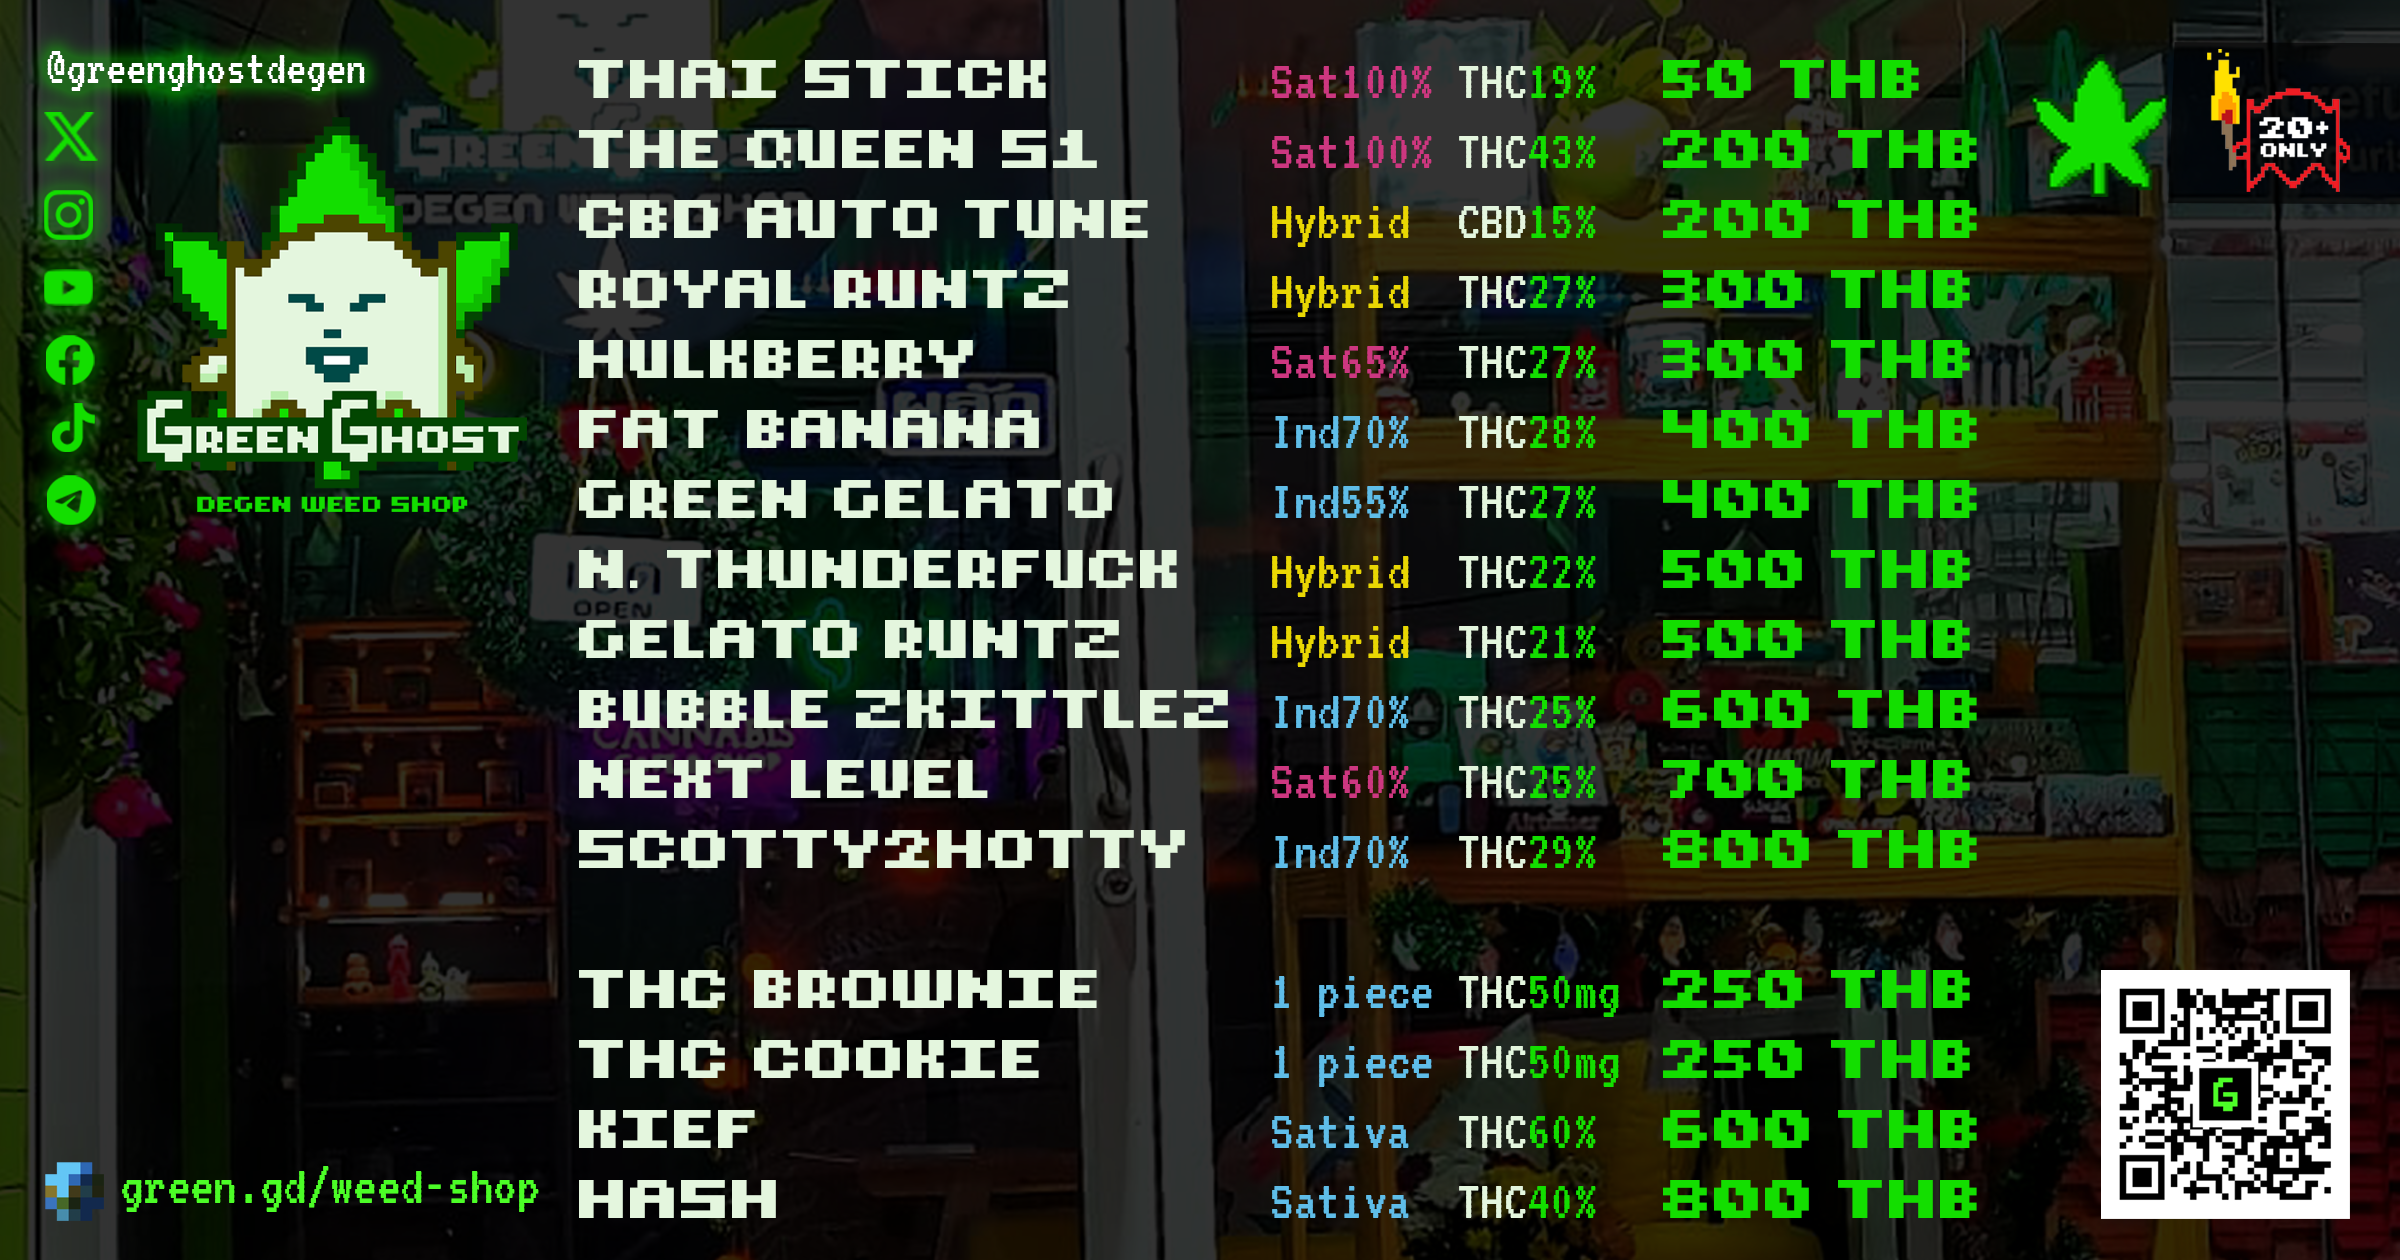
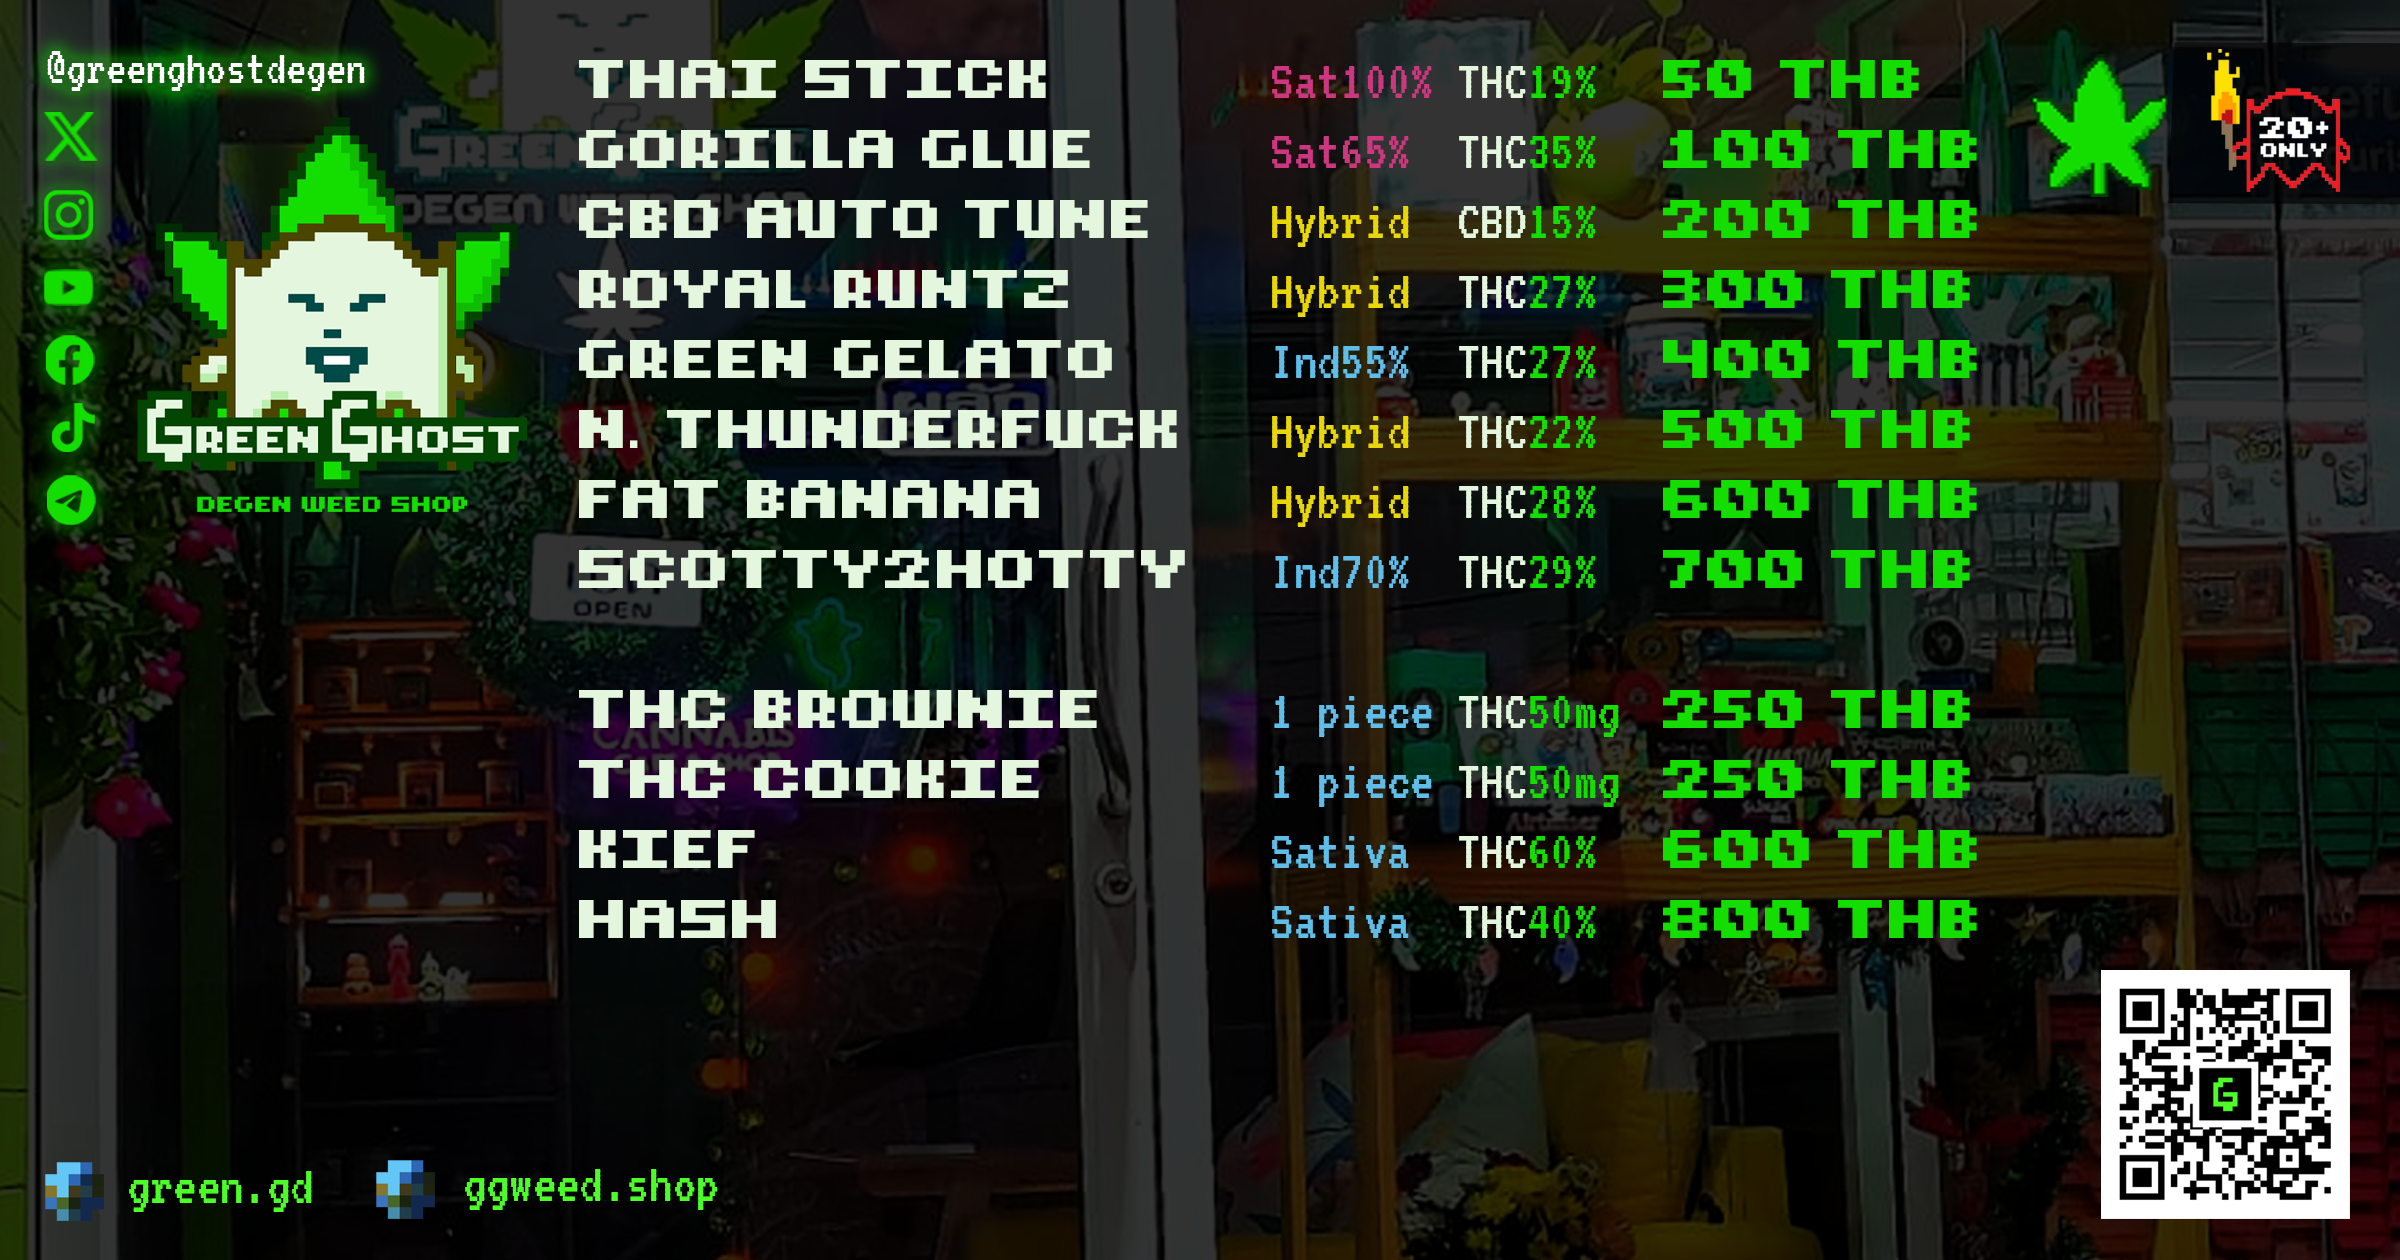
Update menu

diff --git a/config/buds.ts b/config/buds.ts
@@ -84,6 +84,37 @@ export const buds: Bud[] = [
     source: 'undefined',
   },
   {
+    slug: 'gorilla-goo',
+    name: 'Gorilla Goo',
+    price: 100,
+    dominance: 'Sativa',
+    indica: '30',
+    sativa: '70',
+    THC: '30',
+    CBD: '0',
+    effects: 'Euphoria, Relaxing, Sleepy',
+    relieves: 'Chronic Pain, Depression, Insomnia',
+    grower: 'Green Ghost',
+    growerSlug: '/green-ghost',
+    environment: 'Greenhouse',
+    harvest: '25/02/2024',
+    quantity: 83,
+    origin: 'Phuket',
+    description:
+      "Indulge in the captivating embrace of Gorilla Goo, a sativa-dominant hybrid that delivers an exhilarating experience crafted from the fusion of Chem's Sister, Sour Dubb, and Chocolate Diesel strains. With a staggering average THC level of 30%, this potent strain offers a long-lasting high that envelopes you in relaxation, perfect for unwinding after a long day. Its euphoric onset elevates the spirits, while its deeply sedative effects gradually soothe both mind and body, making it an ideal choice for addressing chronic pain, insomnia, depression, and muscle spasms. \n\n Experience the addictive allure of Gorilla Goo's earthy sour flavor, enhanced by a decadent chocolate diesel exhale. The aroma tantalizes the senses with fruity notes intertwined with hints of pungent pine and heavy diesel undertones. Each bud boasts a lush forest green hue, adorned with dark orange hairs and generously coated in bright white crystal trichomes. Discover the blissful tranquility and therapeutic benefits of Gorilla Goo, a strain that promises to leave you glued to the couch in blissful relaxation for hours on end.",
+    descSeo:
+      "Indulge in the captivating embrace of Gorilla Goo, a sativa-dominant hybrid that delivers an exhilarating experience crafted from the fusion of Chem's Sister, Sour Dubb, and Chocolate Diesel strains. With a staggering average THC level of 30%, this potent strain offers a long-lasting high that envelopes you in relaxation, perfect for unwinding after a long day. Its euphoric onset elevates the spirits, while its deeply sedative effects gradually soothe both mind and body, making it an ideal choice for addressing chronic pain, insomnia, depression, and muscle spasms.",
+    images: [
+      '/media/green-ghost-degen-weed-shop-strain-gorilla-goo-cover.webp',
+      '/media/green-ghost-degen-weed-shop-strain-gorilla-goo-cover.webp',
+      '/media/green-ghost-degen-weed-shop-strain-gorilla-goo-cover.webp',
+      '/media/green-ghost-degen-weed-shop-strain-gorilla-goo-cover.webp',
+    ],
+    imgDesc: 'Green Ghost - Degen Weed Shop - Strain The Queen S1',
+    source:
+      'https://www.allbud.com/marijuana-strains/sativa-dominant-hybrid/gorilla-goo',
+  },
+  {
     slug: 'the-queen-s1',
     name: 'The Queen S1',
     price: 1000,

diff --git a/components/StrainWeek.tsx b/components/StrainWeek.tsx
@@ -114,32 +114,12 @@ export const StrainWeek = () => {
           >
             Try our new{' '}
             <Link
-              href="/weed-shop/fat-banana"
-              title="New weed Strain - Fat Banana!"
+              href="/weed-shop/gorilla-goo"
+              title="New weed Strain - Gorilla Goo!"
               passHref
             >
               <Box as={'span'} color={'ghostVerse.blue.base'}>
-                {'Fat Banana'}
-              </Box>
-            </Link>
-            ,{' '}
-            <Link
-              href="/weed-shop/north-thunderfuck"
-              title="New weed Strain - North Thunderfuck!"
-              passHref
-            >
-              <Box as={'span'} color={'ghostVerse.blue.base'}>
-                {'North Thunderfuck'}
-              </Box>
-            </Link>
-            , and{' '}
-            <Link
-              href="/weed-shop/thai-stick"
-              title="New weed Strain - Thai Stick!"
-              passHref
-            >
-              <Box as={'span'} color={'ghostVerse.blue.base'}>
-                {'Thai Stick'}
+                {'Gorilla Goo'}
               </Box>
             </Link>{' '}
             strains now!
@@ -184,16 +164,6 @@ export const StrainWeek = () => {
             >
               <Box as={'span'} color={'ghostVerse.blue.base'}>
                 SlimJim Rolling Papers
-              </Box>
-            </Link>
-            ,{' '}
-            <Link
-              href="/weed-shop-gadgets/small-metal-grinder"
-              title="New weed Gadget - Small Metal Grinder!"
-              passHref
-            >
-              <Box as={'span'} color={'ghostVerse.blue.base'}>
-                Small Metal Grinder
               </Box>
             </Link>{' '}
             and{' '}
